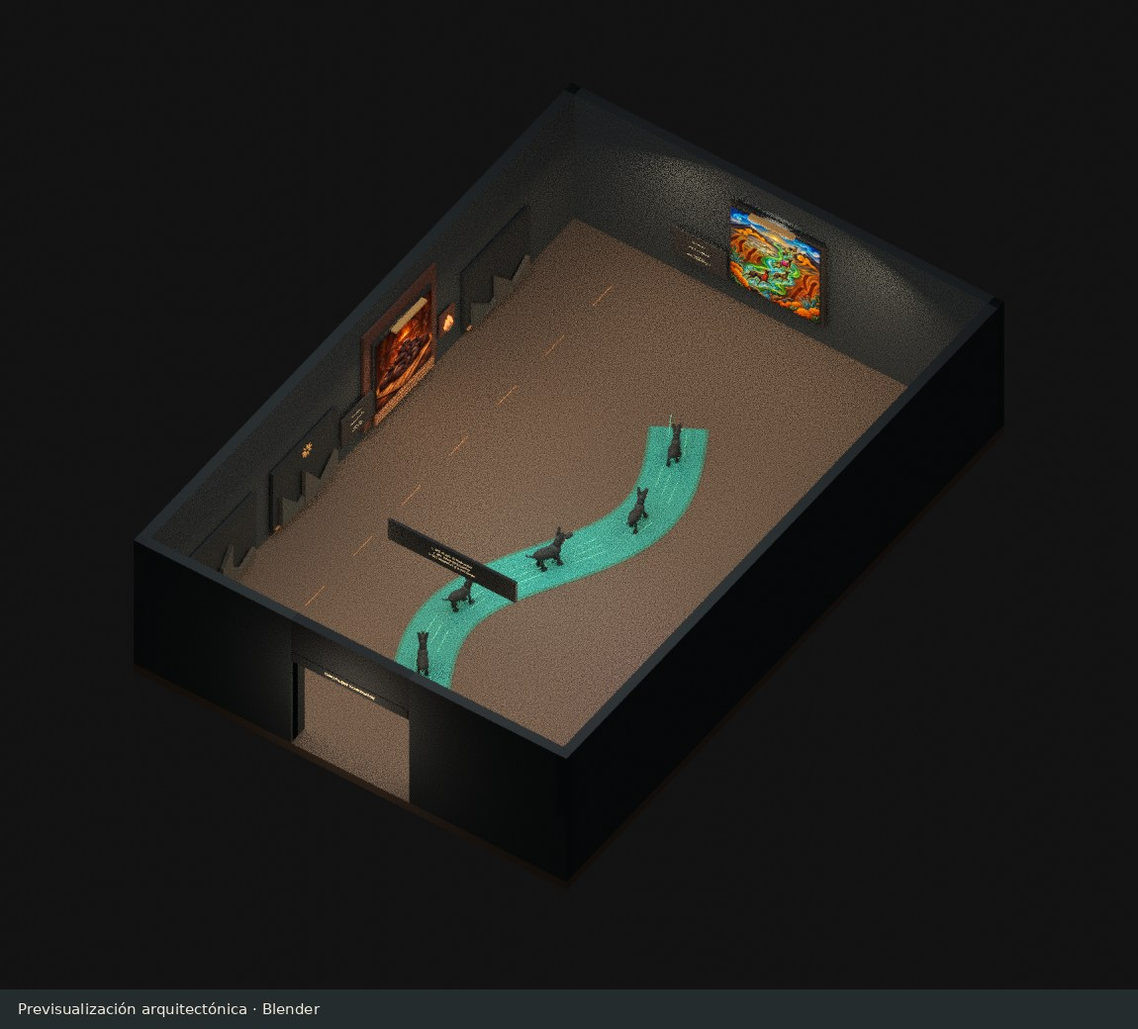
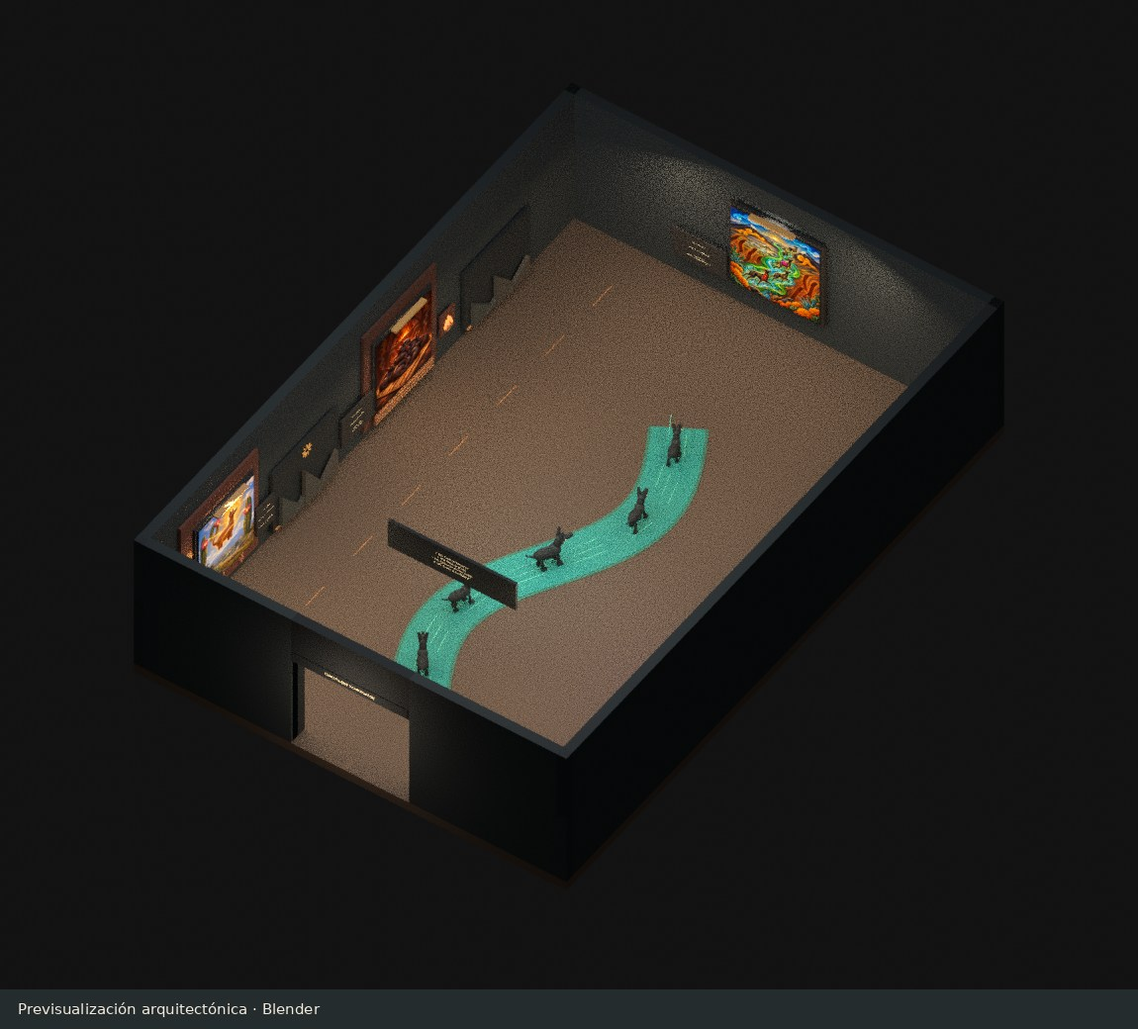
Add Tonalli en el Xolo as the fourth exhibition

Changed region(s): [[0.1522, 0.4308, 0.2739, 0.5846], [0.3348, 0.5231, 0.4565, 0.6154]]

diff --git a/colectividad/tools/draw_plan.py b/colectividad/tools/draw_plan.py
@@ -16,7 +16,7 @@ def main():
     parser = argparse.ArgumentParser(description=__doc__)
     parser.add_argument("scene", type=Path)
     parser.add_argument("output", type=Path)
-    parser.add_argument("--compare", type=Path, help="Planta de dos obras para componer la comparación")
+    parser.add_argument("--compare", type=Path, help="Planta de tres obras para componer la comparación")
     args = parser.parse_args()
     data = json.loads(args.scene.read_text())
     elements = data["parts"]
@@ -24,7 +24,7 @@ def main():
 
     paper, ink, secondary = "#f1eadd", "#202b2c", "#505854"
     earth, basalt, water = "#dfd0bb", "#303c3b", "#389b88"
-    amber, line, violet = "#ae672d", "#a89a84", "#633b87"
+    amber, line, violet, terracotta = "#ae672d", "#a89a84", "#633b87", "#a64c39"
     image = Image.new("RGB", (1430, 1200), paper)
     draw = ImageDraw.Draw(image)
     draw.text((64, 56), "Colectividad Xoloitzcuintle", font=font(48, True), fill=ink)
@@ -60,7 +60,7 @@ def main():
         ("Piso continuo", earth), ("Muro lateral", basalt), ("Muro del umbral", basalt),
         ("Muro de la obra", basalt), ("Jamba", basalt), ("Panel de pizarra", "#948473"),
         ("Orilla", "#7a9a7a"), ("Agua", water), ("Paño de arcilla", "#a1582e"),
-        ("Paño de obsidiana", violet), ("Marco", "#a1582e"), ("Obra", "#e49847"),
+        ("Paño de obsidiana", violet), ("Paño de terracota", terracotta), ("Marco", "#a1582e"), ("Obra", "#e49847"),
         ("Placa", "#b78957"),
     ):
         for part in elements:
@@ -69,6 +69,7 @@ def main():
 
     draw.rectangle((xy(14, 42), xy(19.4, 28)), fill="#e7bc90", outline=amber, width=2)
     draw.rectangle((xy(-19.4, 32), xy(-14, 18)), fill="#d9c6e9", outline=violet, width=2)
+    draw.rectangle((xy(14, 20), xy(19.4, 5)), fill="#e8bdab", outline=terracotta, width=2)
     for part in elements:
         if part["name"] == "Torso":
             x, _, z, *_ = part["transform"]
@@ -101,6 +102,9 @@ def main():
     arrow(xy(-10.1, 24.5), xy(-15.2, 24.5), violet, width=3, head=9)
     draw.text(xy(-20, 16.6), "Lectura 003", font=font(15, True), fill=ink, anchor="lt")
 
+    arrow(xy(10.1, 12.5), xy(15.2, 12.5), terracotta, width=3, head=9)
+    draw.text(xy(20, 3.8), "Lectura 004", font=font(15, True), fill=ink, anchor="rt")
+
     # Dimension lines sit outside the walkable plan.
     x1, top = xy(-22, 64)
     x2, bottom = xy(22, 0)
@@ -117,7 +121,7 @@ def main():
     draw.text((784, 997), "+Z", font=font(16, True), fill=ink, anchor="mt")
 
     draw.line((856, 227, 856, 1115), fill=line, width=2)
-    draw.text((908, 249), "Recorrido y exhibiciones", font=font(31, True), fill=ink)
+    draw.text((908, 232), "Recorrido y exhibiciones", font=font(31, True), fill=ink)
     notes = [
         ("Umbral", "Piso a cota 0. Se entra y se regresa\npor la misma abertura."),
         ("Cauce", "Incrustación turquesa sobre piso continuo.\nCinco xolos orientados hacia la obra."),
@@ -125,14 +129,15 @@ def main():
         ("001 · Cauce del Itzcuintlan", "Muro del fondo · obra 9 × 9, frente −Z.\nCentro (0, 7.65, 62.25)."),
         ("002 · El calor de Huehueteotl", "Paño +X · obra 8 × 8, frente −X.\nCentro (20.35, 6.9, 37).\nLectura: X 14–19.4, Z 28–42."),
         ("003 · Itztlantli en el nuevo mundo", "Paño −X · obra 8 × 8, frente +X.\nCentro (−20.35, 6.9, 23).\nLectura: X −19.4 a −14, Z 18–32."),
+        ("004 · Tonalli en el Xolo", "Paño +X · obra 8 × 8, frente −X.\nCentro (20.35, 6.9, 11).\nLectura: X 14–19.4, Z 5–20."),
     ]
     for index, (heading, copy) in enumerate(notes):
-        y = (301, 407, 513, 619, 725, 859)[index]
+        y = (289, 380, 471, 562, 657, 775, 893)[index]
         draw.line((908, y - 12, 1363, y - 12), fill=line, width=1)
-        draw.text((909, y), heading, font=font(22, True), fill=violet if index == 5 else amber)
-        draw.multiline_text((909, y + 36), copy, font=font(19), fill=ink, spacing=7)
-    draw.ellipse((909, 1012, 921, 1024), fill="#e49847", outline=ink, width=2)
-    draw.text((933, 1007), "Prompt · Leer ficha", font=font(17), fill=ink)
+        draw.text((909, y), heading, font=font(22, True), fill={5: violet, 6: terracotta}.get(index, amber))
+        draw.multiline_text((909, y + 30), copy, font=font(18), fill=ink, spacing=7)
+    draw.ellipse((909, 1024, 921, 1036), fill="#e49847", outline=ink, width=2)
+    draw.text((933, 1019), "Prompt · Leer ficha", font=font(17), fill=ink)
     draw.text((908, 1055), "Altura libre: 15 studs. Cotas respecto al umbral.", font=font(16), fill=secondary)
     draw.text((908, 1083), "Implantación en el museo pendiente de inventario.", font=font(16), fill=secondary)
 
@@ -146,12 +151,12 @@ def main():
         comparison.paste(prior.crop(crop), (30, 155))
         comparison.paste(image.crop(crop), (770, 155))
         captions = ImageDraw.Draw(comparison)
-        captions.text((64, 39), "Colectividad Xoloitzcuintle · dos y tres obras", font=font(43, True), fill=ink)
-        captions.text((66, 107), "Etapa 2 · Dos estaciones", font=font(26, True), fill=ink)
-        captions.text((806, 107), "Etapa 3 · Itztlantli en el paño −X", font=font(26, True), fill=violet)
+        captions.text((64, 39), "Colectividad Xoloitzcuintle · tres y cuatro obras", font=font(43, True), fill=ink)
+        captions.text((66, 107), "Etapa 3 · Tres estaciones", font=font(26, True), fill=ink)
+        captions.text((806, 107), "Etapa 4 · Tonalli en el paño +X", font=font(26, True), fill=terracotta)
         captions.line((745, 107, 745, 1060), fill=line, width=2)
         captions.text((66, 1068), "Misma escala y envolvente de 44 × 64 studs", font=font(20), fill=secondary)
-        comparison.save(args.output.with_name("comparativa.png"), optimize=True)
+        comparison.save(args.output.with_name("comparativa-etapa4.png"), optimize=True)
 
 
 if __name__ == "__main__":

diff --git a/colectividad/tools/render_preview.py b/colectividad/tools/render_preview.py
@@ -15,7 +15,7 @@ def arguments():
     parser.add_argument("scene", type=Path)
     parser.add_argument("originals", type=Path, help="Directory with the original PNGs, named by slug")
     parser.add_argument("output", type=Path)
-    parser.add_argument("--views", nargs="+", default=["entrada", "procesion", "obra", "huehueteotl", "itztlantli", "tres-estaciones", "retorno", "axonometria"])
+    parser.add_argument("--views", nargs="+", default=["entrada", "procesion", "obra", "huehueteotl", "itztlantli", "tonalli", "cuatro-estaciones", "retorno", "axonometria"])
     return parser.parse_args(sys.argv[sys.argv.index("--") + 1 :])
 
 
@@ -203,8 +203,9 @@ def main(args):
         elif part["name"] == "Directorio de obras":
             for label in part["signs"][0]["labels"]:
                 y = part["size"][1] * (0.5 - label["y"] - label["h"] / 2)
-                sign_text("Directorio", label["text"], 0.44, frame,
-                          (0, y, -part["size"][2] / 2 - 0.014), text)
+                x = -part["size"][0] * (label["x"] + label["w"] / 2 - 0.5)
+                sign_text("Directorio", label["text"], 0.39, frame,
+                          (x, y, -part["size"][2] / 2 - 0.014), text)
         elif part["name"] == "Placa":
             w, h, depth = part["size"]
             for label in part["signs"][0]["labels"]:
@@ -219,6 +220,7 @@ def main(args):
     area("Luz del marco", (0, 12.3, 60.5), (0, 5, 62), 460, 4.4, (1, 0.87, 0.70))
     area("Luz del petate", (18.1, 10.7, 36.5), (20, 2.4, 36.5), 530, 4, (1, 0.61, 0.30))
     area("Luz violeta del eclipse", (-18.1, 10.65, 23.0), (-20, 4.1, 22.6), 580, 4, (0.61, 0.40, 1.0))
+    area("Luz solar de terracota", (17.9, 11, 10), (20, 4.5, 11), 610, 4, (1, 0.72, 0.42))
     area("Luz rasante del cauce", (0, 11.6, 29), (0, 0, 31), 780, 12, (0.62, 0.86, 0.89))
     area("Luz del acceso", (0, 9, -5), (0, 7, 1), 540, 7, (1, 0.8, 0.63))
 
@@ -232,7 +234,8 @@ def main(args):
         "obra": ((1.25, 5.65, 44), (2, 7.3, 62), 29),
         "huehueteotl": ((3.5, 5.5, 32.2), (20, 6.5, 36.6), 27),
         "itztlantli": ((-4.0, 5.5, 23.4), (-20, 6.1, 23.5), 25),
-        "tres-estaciones": ((0, 6.2, 1.25), (0, 6.0, 52), 13),
+        "tonalli": ((3.6, 5.6, 11.6), (20, 6.15, 11.45), 26),
+        "cuatro-estaciones": ((-7.5, 6.25, 1.9), (6, 6.1, 40), 9.5),
         "retorno": ((9.5, 5.65, 47), (0, 6.3, 0), 24),
     }
     for name, parameters in views.items():

diff --git a/colectividad/docs/arquitectura.md b/colectividad/docs/arquitectura.md
@@ -1,8 +1,8 @@
 # Arquitectura de Colectividad Xoloitzcuintle
 
-Desde el umbral, el cauce turquesa y las cinco figuras de basalto mantienen el eje visual hacia «Cauce del Itzcuintlan». El directorio indica los dos desvíos laterales. En el paño −X, «Itztlantli en el nuevo mundo» introduce violeta, obsidiana y un eclipse en relieve. En +X, «El calor de Huehueteotl» conserva la arcilla, el petate y el brasero ámbar. Cada obra lateral tiene una franja de lectura a la misma cota del piso. El tercer montaje sustituye únicamente el relieve del paño −X a Z 23.
+Desde el umbral, el cauce turquesa y las cinco figuras de basalto mantienen el eje hacia «Cauce del Itzcuintlan». En +X, «Tonalli en el Xolo» abre el recorrido con terracota, luz solar y tres cactus floridos. Más adelante se alternan el eclipse violeta de «Itztlantli en el nuevo mundo» en −X y el brasero ámbar de «El calor de Huehueteotl» en +X. Cada obra lateral tiene su propia franja de lectura a la cota del piso.
 
-![Planta acotada con tres exhibiciones, prompts y circulación](evidencia/planta.png)
+![Planta acotada con cuatro exhibiciones, prompts y circulación](evidencia/planta.png)
 
 | Elemento | Medidas y cotas locales en studs |
 | --- | --- |
@@ -16,25 +16,28 @@ Desde el umbral, el cauce turquesa y las cinco figuras de basalto mantienen el e
 | Lectura 002 | X 14…19.4, Z 28…42. El corredor +X ocupa X 7…13. La franja de lectura es espacio libre sobre el piso. La luminaria y el brasero están fijados al paño. |
 | 003 · Itztlantli en el nuevo mundo | Obra 8 × 8 en (−20.35, 6.9, 23), frente +X. Placa en (−20.28, 4.6, 30.15) y prompt en (−19.78, 3.85, 30.15), con alcance de 7 studs. |
 | Lectura 003 | X −19.4…−14, Z 18…32. El corredor −X ocupa X −13…−7. El eclipse y el marco están montados en pared. |
-| Directorio | Centro (0, 12.8, 15), frente al acceso (−Z). Al mirar hacia +Z, 002 queda a la izquierda, 003 a la derecha y 001 al fondo. |
+| 004 · Tonalli en el Xolo | Obra 8 × 8 en (20.35, 6.9, 11), frente −X. Placa en (20.28, 4.6, 16.70) y prompt en (19.78, 3.85, 16.70), con alcance de 6 studs. |
+| Lectura 004 | X 14…19.4, Z 5…20. La placa termina en Z 18.0 y el paño siguiente empieza en Z 18.2. El prompt de 004 queda a 13.35 studs del de 002, con radios de 6 y 7. |
+| Directorio | Centro (0, 12.32, 15), frente al acceso (−Z) y borde inferior Y 10.76. Las flechas indican 004 y 002 a la izquierda del visitante, 003 a la derecha y 001 al fondo. |
 | Expansión | Los otros paños de pizarra siguen disponibles. `Catalogo.json` aporta los metadatos de la serie, `Artworks.luau` los textos interpretativos y `Displays.luau` las posiciones, giros y dimensiones del montaje. |
 
 La ficha amplía la placa con texto de alto contraste y desplazamiento vertical. La validación de cámara, navegación y legibilidad en dispositivo está en la [lista de aceptación](validacion.md).
 
 ## Comparación para revisión con Astra
 
-[Planta de dos y tres estaciones a la misma escala](evidencia/comparativa.png). La tercera pieza queda adelantada respecto a la estación ámbar (Z 23 frente a Z 37), por lo que ambas pueden leerse en un recorrido de ida y vuelta alrededor del cauce. El plano permite revisar el protagonismo de 001 desde el umbral, el escalonamiento entre los paños y el espacio para detenerse a leer sin ocupar el paso. Los renders permiten evaluar el contraste entre turquesa, ámbar y violeta, así como la legibilidad del directorio y la escala del relieve.
+El paño +X a Z 11 ofrece un primer punto de lectura lateral entre el acceso y Huehueteotl. La alternativa −X a Z 51 situaría la lectura junto al cruce transversal Z 49…58 y competiría con la aproximación a 001. La planta conserva los corredores de 6 studs y la envolvente de 44 × 64. [Comparativa de tres y cuatro estaciones a la misma escala](evidencia/comparativa-etapa4.png).
 
 ## Previsualización
 
-Blender usa las posiciones, medidas, colores y rótulos exportados desde Luau. Sus luces y cámaras son de previsualización. Las tres obras se muestran con sus PNG canónicos verificados. Los marcos de la maqueta Roblox muestran el aviso de asset pendiente.
+Blender usa las posiciones, medidas, colores y rótulos exportados desde Luau. Sus luces y cámaras son de previsualización. Las cuatro obras se muestran con sus PNG canónicos verificados. Los marcos de la maqueta Roblox muestran el aviso de asset pendiente.
 
 | Vista | Imagen |
 | --- | --- |
-| Tres exhibiciones | [Perspectiva de conjunto](evidencia/tres-estaciones.jpg) |
+| Cuatro exhibiciones | [Perspectiva de conjunto](evidencia/cuatro-estaciones.jpg) |
 | Cauce del Itzcuintlan | [Marco y placa](evidencia/obra.jpg) |
 | El calor de Huehueteotl | [Marco, placa, petate y brasero](evidencia/huehueteotl.jpg) |
 | Itztlantli en el nuevo mundo | [Marco, placa y eclipse](evidencia/itztlantli.jpg) |
+| Tonalli en el Xolo | [Terracota, sol y tres cactus](evidencia/tonalli.jpg) |
 | Volumen y recorridos | [Axonometría sin cubierta](evidencia/axonometria.jpg) |
 | Acceso y circulación | [Entrada](evidencia/entrada.jpg) · [Procesión](evidencia/procesion.jpg) · [Regreso](evidencia/retorno.jpg) |
 
@@ -46,8 +49,8 @@ Desde la raíz del repositorio, con Lune 0.11.1, Blender 4.3 y Python con Pillow
 
 ```sh
 lune run colectividad/tools/export_preview.luau sala.json
-git show fa8d217:colectividad/docs/evidencia/planta.png > planta-etapa2.png
-python3 colectividad/tools/draw_plan.py sala.json planta.png --compare planta-etapa2.png
+git show 7e3cd1c:colectividad/docs/evidencia/planta.png > planta-etapa3.png
+python3 colectividad/tools/draw_plan.py sala.json planta.png --compare planta-etapa3.png
 blender -b --factory-startup --python-exit-code 1 \
   --python colectividad/tools/render_preview.py -- sala.json originales renders
 ```

diff --git a/colectividad/docs/validacion.md b/colectividad/docs/validacion.md
@@ -3,12 +3,12 @@
 ## Ejecutada en Debian
 
 - Compilación de todos los scripts Luau con el compilador oficial 0.746.
-- Pruebas Lune con instancias de rbx-dom y consultas del mundo simuladas. Verifican los tres marcos cuadrados, su orientación, tres prompts con los títulos y datos correctos, y el rechazo de un ID inválido en la tercera obra sin dejar una instalación parcial. Confirman el anclaje de prueba, la conservación de instancias históricas simuladas y la reejecución sin duplicados.
+- Pruebas Lune con instancias de rbx-dom y consultas del mundo simuladas. Verifican los cuatro marcos cuadrados, su orientación, cuatro prompts con los títulos y datos correctos, y el rechazo de un ID inválido en la cuarta obra sin dejar una instalación parcial. Confirman el anclaje de prueba, la conservación de instancias históricas simuladas y la reejecución sin duplicados.
 - Prueba del LocalScript con señales simuladas. Al alternar entre obras se actualizan título, edición, token y anuncio. Solo se procesa el prompt del visitante local y de su exhibidor. Se comprueba una sola GUI, una sola suscripción, cierre y limpieza al reaparecer. Se verifican las propiedades de ajuste de texto, márgenes de pantalla y desplazamiento de la ficha.
 - Construcción con Rojo 7.7.1 de ambos proyectos y lectura de la maqueta generada para comprobar sus scripts y catálogo. Generación del mapa de fuentes de la integración parcial.
-- Dimensiones y SHA-256 de los tres PNG verificados. Xolos Explorer ofrece las referencias de token, minteo y anuncio. Se verificaron en el nodo que consulta el explorador los tres minteos y los tres anuncios.
-- Cotejo de los montajes 001 y 002, cauce, esculturas y envolvente colisionable contra la exportación de la Etapa 2. Los archivos de las salas históricas coinciden con `main`.
-- Planta y previsualizaciones de Blender inspeccionadas. El paquete añade 374 piezas, 13 luces locales y cero emisores de partículas. Los dos montajes laterales quedan fuera del paso y el área de lectura en las comprobaciones geométricas.
+- Dimensiones y SHA-256 de los cuatro PNG verificados. Xolos Explorer ofrece las referencias de token, minteo y anuncio. Se verificaron en el nodo que consulta el explorador los cuatro minteos y los cuatro anuncios.
+- Cotejo de los montajes 001 a 003, cauce, esculturas y envolvente colisionable contra la exportación de la Etapa 3. Los archivos de las salas históricas coinciden con `main`.
+- Planta y previsualizaciones de Blender inspeccionadas. El paquete añade 415 piezas, 14 luces locales y cero emisores de partículas. Los tres montajes laterales quedan fuera del paso y el área de lectura en las comprobaciones geométricas.
 
 ```sh
 find colectividad -name '*.luau' -exec luau-compile --null {} +
@@ -25,11 +25,11 @@ Ejecutar primero en la maqueta local y luego en la copia privada que contiene el
 - [ ] Confirmar versión y respaldo de origen, Place ID, Universe ID, nombre del modelo, coordenadas, abertura, Terrain y ruta de acceso antes de instalar.
 - [ ] Recorrer la pirámide, cuatro exhibidores, Sala de los Espíritus, expansión, NPC y teletransportes antes y después. Registrar diferencias y comprobar que luces, prompts y GUI previos conservan su comportamiento.
 - [ ] Entrar y regresar a pie por ambas orillas. Detenerse en cada franja lateral con otro visitante pasando por el corredor. Probar bordes, esquinas, avatares de varias alturas, giros de cámara, piso al ras y saltos junto a paredes. Verificar la lectura del directorio desde el umbral y que no hay caídas ni atascos.
-- [ ] Alternar entre los tres prompts, cerrar cada ficha y volver a probar tras reaparecer. En una prueba con dos clientes, confirmar que la ficha abre solamente al visitante que activa el prompt. Validar una sola GUI, un solo prompt por pieza y ausencia de errores en Output.
+- [ ] Alternar entre los cuatro prompts, cerrar cada ficha y volver a probar tras reaparecer. En una prueba con dos clientes, confirmar que la ficha abre solamente al visitante que activa el prompt. Validar una sola GUI, un solo prompt por pieza y ausencia de errores en Output.
 - [ ] Comprobar la ficha con teclado (E y Retroceso), pantalla táctil y mando. En pantalla pequeña vertical y horizontal, revisar márgenes, contraste, desplazamiento y lectura de los dos IDs completos en cada ficha. Probar una visita sin credenciales de wallet ni NFT.
 - [ ] Verificar el token y anuncio de cada obra con Xolos Explorer y el catálogo. Comprobar que los controles muestran atribución y datos de xolosArmy Community.
-- [ ] Con los assets aprobados, probar que los tres PNG cargan en la copia para una cuenta visitante y conservan proporción y esquinas. Probar el aviso visible con asset ausente o inaccesible.
+- [ ] Con los assets aprobados, probar que los cuatro PNG cargan en la copia para una cuenta visitante y conservan proporción y esquinas. Probar el aviso visible con asset ausente o inaccesible.
 - [ ] Medir tasa de cuadros y tiempos de renderizado en móvil y escritorio durante entrada, giro y acercamiento. Registrar dispositivo, resolución, calidad gráfica y mediciones.
-- [ ] Guardar capturas de entrada, cauce, cinco figuras, las tres obras, las tres fichas y regreso. Registrar un recorrido breve en escritorio y emulación móvil con la versión exacta del Place de prueba.
+- [ ] Guardar capturas de entrada, cauce, cinco figuras, las cuatro obras, las cuatro fichas y regreso. Registrar un recorrido breve en escritorio y emulación móvil con la versión exacta del Place de prueba.
 
 Estas pruebas requieren Studio en Windows o macOS. El PR permanece en borrador para revisión del diseño y las pruebas pendientes.

diff --git a/colectividad/docs/obra.md b/colectividad/docs/obra.md
@@ -1,6 +1,6 @@
 # Obras de Colectividad Xoloitzcuintle
 
-Tres obras digitales de **xolosArmy Network**, creadas el 13 de noviembre de 2026. Las tres son ediciones 1/1 minteadas como SLP NFT1 Child en eCash dentro de **xolosArmy Community**. Los NFT de linaje corresponden a **xolosArmy Official**. El [catálogo canónico](https://xolosarmy.xyz/blog/colectividad-xoloitzcuintle/catalogo.json) se conserva como [copia local para la sala](../src/shared/Catalogo.json) y alimenta las fichas Luau.
+Cuatro obras digitales de **xolosArmy Network**, creadas el 13 de noviembre de 2026. Las cuatro son ediciones 1/1 minteadas como SLP NFT1 Child en eCash dentro de **xolosArmy Community**. Los NFT de linaje corresponden a **xolosArmy Official**. El [catálogo canónico](https://xolosarmy.xyz/blog/colectividad-xoloitzcuintle/catalogo.json) tiene una selección de las cuatro obras montadas en la [copia local para la sala](../src/shared/Catalogo.json) y alimenta las fichas Luau.
 
 ## 001 · Cauce del Itzcuintlan
 
@@ -25,6 +25,14 @@ La dentición incompleta de algunos xoloitzcuintles sin pelo dialoga con los fil
[3 lines of base64/hex data omitted]
+
+## 004 · Tonalli en el Xolo
+
+Un xolo de barro suspendido sobre el valle evoca la cerámica canina de Colima y la sensibilidad paisajística de José María Velasco. La terracota refleja la luz del sol hacia tres cactus floridos que representan a su familia humana. El montaje acompaña esta lectura con un disco solar y tres pequeños relieves vegetales. [Ficha curatorial](https://xolosarmy.xyz/blog/colectividad-xoloitzcuintle/tonalli-en-el-xolo/).
+
[3 lines of base64/hex data omitted]
 
 Se verificó en el nodo que usa Xolos Explorer que los minteos pertenecen al grupo padre del catálogo y que cada anuncio contiene el ID de su obra. La ficha del visitante muestra Xolos Explorer y los identificadores completos. Roblox restringe los enlaces directos en la experiencia. La sala y las fichas están disponibles para cualquier visitante. [Política de Roblox](https://en.help.roblox.com/hc/en-us/articles/360000910966-Social-Media-Links-for-Experiences-Communities).
 
@@ -53,8 +61,8 @@ for item in catalog["items"]:
 PY
 ```
 
-1. Importa los tres PNG intactos como **Image** con una cuenta autorizada para administrar assets del universo de prueba. Usa Asset Manager o Importer de Studio. [Importador de Studio](https://create.roblox.com/docs/studio/importer).
+1. Importa los cuatro PNG intactos como **Image** con una cuenta autorizada para administrar assets del universo de prueba. Usa Asset Manager o Importer de Studio. [Importador de Studio](https://create.roblox.com/docs/studio/importer).
 2. Tras la moderación, comprueba los permisos del universo de prueba. Configura el ID de contenido **Image** de cada pieza en `ImageIds` de `src/server/Settings.luau` bajo la clave de su slug. Si partiste de un Decal, verifica el ID de la textura. [Moderación de assets](https://en.help.roblox.com/hc/en-us/articles/21416271342868-Content-Moderation-on-Roblox).
-3. En Play, verifica con una cuenta visitante que los tres originales cargan con ajuste **Fit**, muestran sus cuatro esquinas y conservan la atribución. Roblox procesa su propia copia para servirla en el motor. Conserva el PNG fuente verificado como referencia.
+3. En Play, verifica con una cuenta visitante que los cuatro originales cargan con ajuste **Fit**, muestran sus cuatro esquinas y conservan la atribución. Roblox procesa su propia copia para servirla en el motor. Conserva el PNG fuente verificado como referencia.
 
-Los tres marcos muestran un aviso mientras estén pendientes los IDs autorizados. Las placas y las fichas están disponibles durante la prueba local.
+Los cuatro marcos muestran un aviso mientras estén pendientes los IDs autorizados. Las placas y las fichas están disponibles durante la prueba local.

diff --git a/colectividad/docs/integracion.md b/colectividad/docs/integracion.md
@@ -18,7 +18,7 @@ El diff agrega un paquete independiente. Conserva los archivos, modelos, pads, N
 1. En Creator Hub identifica el universo y el Place concretos del museo. Registra sus IDs, propietario, versión publicada y fecha. En Studio verifica nombres y jerarquía en Explorer tanto en edición como en Play, incluyendo modelos creados al iniciar. Guarda un respaldo local del Place fuente, con su versión y fecha, y conserva una copia intacta. Trabaja en una copia privada de prueba con IDs diferentes del museo publicado. [Archivos de Place](https://create.roblox.com/docs/projects/place-files).
 2. Recorre los accesos, NPC, colisiones, saltos, spawns, teletransportes y rutas de regreso. Selecciona un borde de piso ya accesible con una abertura de al menos 12 studs de ancho × 10 de alto. Reserva, desde ese borde, el prisma local X −22…22, Y −1…16, Z 0…64. Inspecciona todo ese volumen, incluido Terrain y contenido generado durante Play, y confirma continuidad de piso, giro de cámara y acceso al umbral desde la ruta del museo. Usa otra abertura si el lugar requiere cortar un muro existente.
 3. En un `BasePart` anclado del modelo verificado, crea un `Attachment` llamado `ColectividadThreshold`. Su `WorldCFrame` representa el centro del umbral a nivel del piso terminado. +Y es arriba y +Z entra a la sala. En Roblox, `LookVector` apunta en −Z. Si el museo se instancia al iniciar, instala el Attachment en su fuente o plantilla de la copia y ejecuta el arranque de la sala cuando esa geometría ya exista. La validación se realiza sobre el estado del mundo al llamar a `Room.install`.
-4. Configura `src/server/Settings.luau` en una copia local del proyecto. Usa los IDs de prueba en `TestPlaceId` y `TestUniverseId`, la ruta exacta por nombres desde Workspace en `AnchorModelPath` y el marco mundial medido en `ExpectedThresholdCFrame`. En la Command Bar de Studio, con el Attachment seleccionado, puedes registrar sus componentes con `print(game.Selection:Get()[1].WorldCFrame:GetComponents())` y construir `CFrame.new(...)` con esos doce valores. Activa `ReviewedClearance` tras la inspección. Para un asset autorizado, completa también `ImageIds`.
+4. Configura `src/server/Settings.luau` en una copia local del proyecto. Usa los IDs de prueba en `TestPlaceId` y `TestUniverseId`, la ruta exacta por nombres desde Workspace en `AnchorModelPath` y el marco mundial medido en `ExpectedThresholdCFrame`. En la Command Bar de Studio, con el Attachment seleccionado, puedes registrar sus componentes con `print(game.Selection:Get()[1].WorldCFrame:GetComponents())` y construir `CFrame.new(...)` con esos doce valores. Activa `ReviewedClearance` tras la inspección. Completa en `ImageIds` los IDs autorizados de las cuatro obras. Cada marco tiene su propia configuración y muestra un aviso mientras falte su imagen.
 5. Confirma que las carpetas `ColectividadXoloitzcuintle` estén libres en `ReplicatedStorage`, `ServerScriptService` y `StarterPlayer.StarterPlayerScripts`. Desde la raíz ejecuta `rojo serve colectividad/integration.project.json` y conecta el plugin de Rojo exclusivamente en la copia de prueba. Inspecciona el cambio propuesto antes de sincronizar. El proyecto omite Workspace y preserva instancias desconocidas. Construye la maqueta separada con `demo.project.json`. [Formato de proyecto Rojo](https://rojo.space/docs/v7/project-format/).
 6. Ejecuta las pruebas en Studio con Output abierto. En una copia abierta con IDs válidos, el generador verifica el Attachment único, su posición y giro, seis muestras del piso de llegada y los volúmenes de acceso y sala mediante consultas de colisión. La inspección manual cubre Terrain, partes no colisionables, interacciones heredadas y rutas completas. La sala se publica en Workspace como un solo modelo una vez construida.
 

diff --git a/colectividad/README.md b/colectividad/README.md
@@ -1,6 +1,6 @@
 # Colectividad Xoloitzcuintle
 
-Ampliación del Museo del Itzcuintlan para el [mandato XR-ROBLOX-COLECTIVIDAD-SALA-001](https://github.com/xolosArmy/xolosarmy_roblox_nft_gallery/issues/3). La sala se genera en Luau. Incluye una entrada y un regreso físicos, dos recorridos alrededor del cauce, cinco esculturas y tres exhibiciones: «Cauce del Itzcuintlan», «El calor de Huehueteotl» e «Itztlantli en el nuevo mundo».
+Ampliación del Museo del Itzcuintlan para el [mandato XR-ROBLOX-COLECTIVIDAD-SALA-001](https://github.com/xolosArmy/xolosarmy_roblox_nft_gallery/issues/3). La sala se genera en Luau. Incluye una entrada y un regreso físicos, dos recorridos alrededor del cauce, cinco esculturas y cuatro exhibiciones. «Cauce del Itzcuintlan», «El calor de Huehueteotl», «Itztlantli en el nuevo mundo» y «Tonalli en el Xolo».
 
 | Revisión | Archivos |
 | --- | --- |
@@ -17,7 +17,7 @@ Desde la raíz del repositorio, con Rojo 7.7.1:
 rojo build colectividad/demo.project.json -o Colectividad-demo.rbxlx
 ```
 
-Abre el archivo local en Roblox Studio para Windows o macOS. Usa **Play** y entra por el umbral. Activa **Leer ficha** en el muro del fondo y en los dos paños laterales. Vuelve por cualquiera de las dos orillas. El generador construye la sala durante Play. Cada marco muestra «Imagen pendiente de autorización en Roblox» hasta configurar su ID aprobado. La salida de la maqueta vuelve a su propio acceso.
+Abre el archivo local en Roblox Studio para Windows o macOS. Usa **Play** y entra por el umbral. Activa **Leer ficha** en el muro del fondo y en los tres paños laterales. Vuelve por cualquiera de las dos orillas. El generador construye la sala durante Play. Cada marco muestra «Imagen pendiente de autorización en Roblox» hasta configurar su ID aprobado. La salida de la maqueta vuelve a su propio acceso.
 
 ## Probar el museo con la ampliación
 
